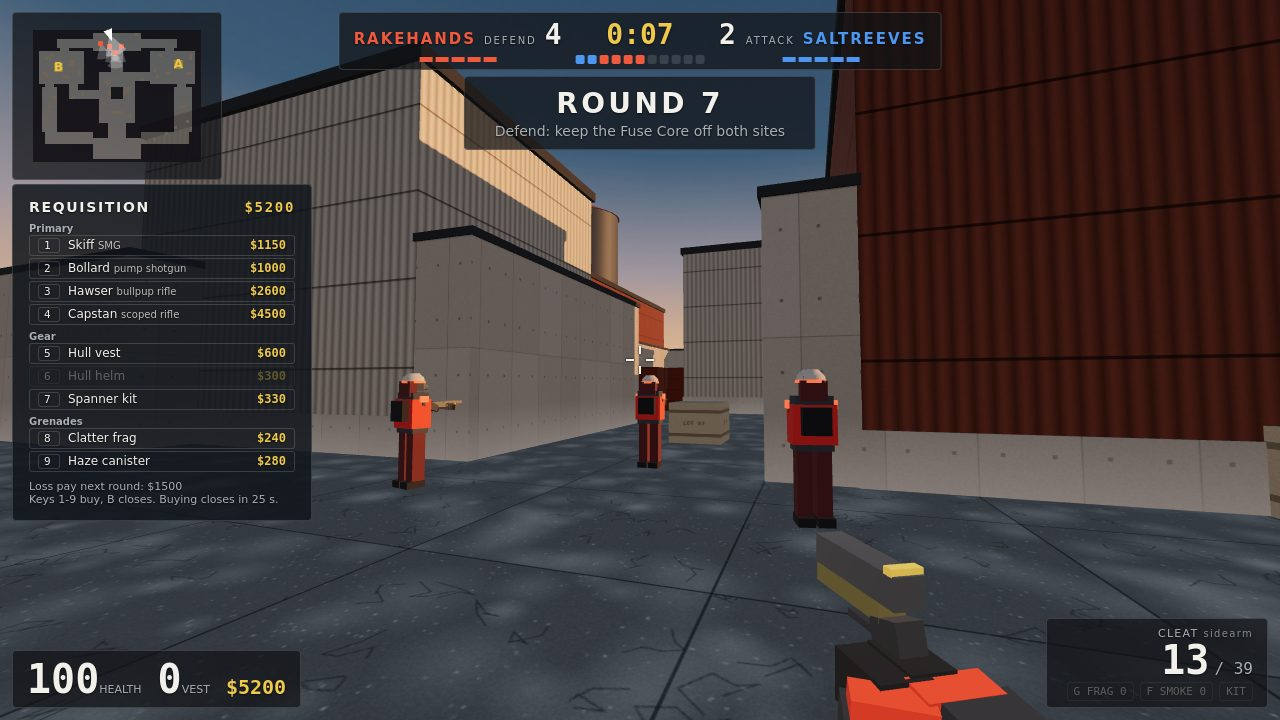
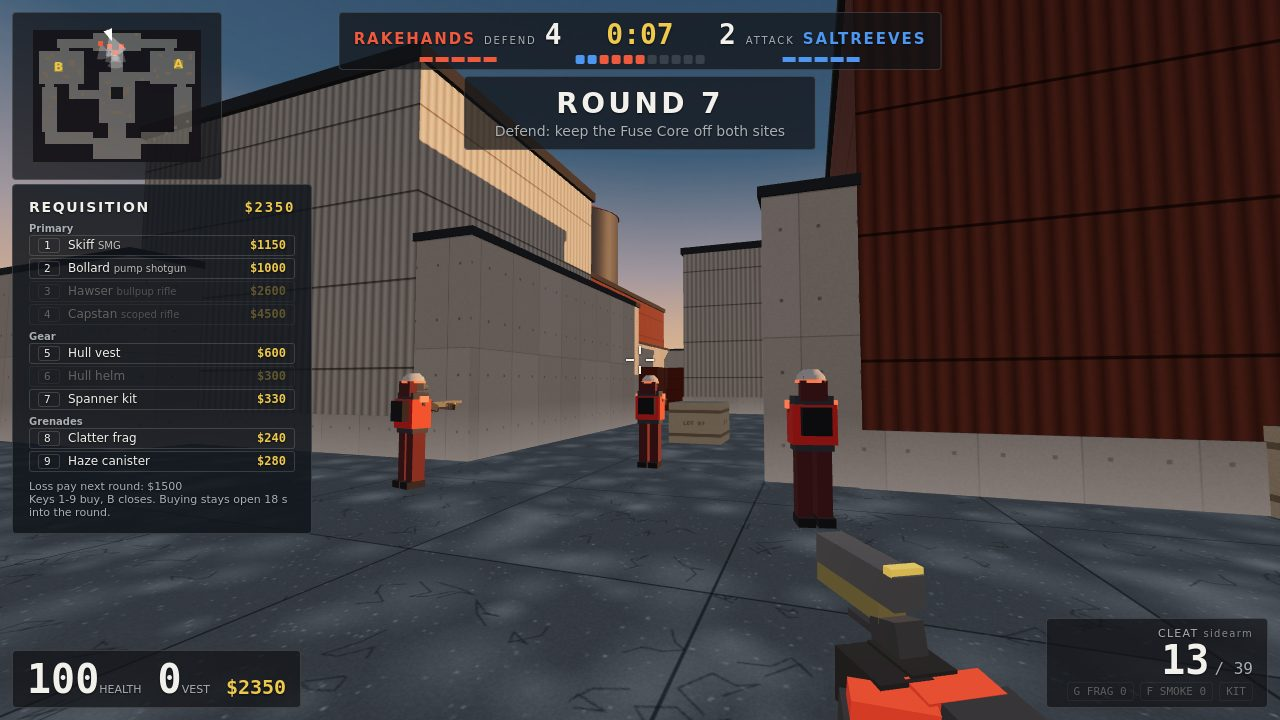
Buy menu: a static true footer instead of a second countdown; shot 2 at $2350
- The footer said 'Buying closes in 25 s' next to the 0:07 freeze clock; it now says 'Buying
  stays open 18 s into the round' (ROUND.buyWindow), keyed on the loss pay (-78 B).
- Shot 2 stages exactly $2350, so the Hawser and Capstan rows dim: money limits the buy.
Fresh screenshots.

diff --git a/tools/stage.js b/tools/stage.js
@@ -29,7 +29,7 @@ const SCENES = {
       s.p.cmd.fire = i === 15 || i === 31;
     } },
   // Buy time in the defenders' yard, the low sun across the cladding, teammates armed differently.
-  2: { side: 1, round: 7, phase: 'freeze', ticks: 12, buy: true, money: 5200, bare: true,
+  2: { side: 1, round: 7, phase: 'freeze', ticks: 12, buy: true, money: 2350, bare: true,
     cast: [['p', 25, 1, 27, 8], ['m0', 25, 5, 26, 9, 'skiff'], ['m1', 29, 5, 28, 9, 'bollard'], ['m2', 27, 7, 27, 12, 'hawser']],
     script(i, s) { s.aim(null, 0.05, 27.5, 8); } },
   // Arming on B: a teammate arms the Fuse Core on the pad while the player covers from behind; the smoke
@@ -88,7 +88,7 @@ function stage(ctx, sc) {
   for (const [k, c, r, fc, fr, gun] of sc.cast) place(state, who(k), c, r, fc, fr, gun);
   if (sc.bare) Object.assign(p, { armor: 0, helm: false, kit: false }), Object.assign(p.grenades, { frag: 0, smoke: 0 });
   else { Object.assign(p.grenades, { frag: 1, smoke: 1 }); p.armor = 100; p.helm = true; p.kit = mySide === 1; } // the kit is the defenders'
-  p.money = Math.max(p.money, sc.money ?? 3150);
+  p.money = sc.money ?? Math.max(p.money, 3150); // exact when the scene sets it
   p.hp = sc.hp ?? 100;
   if (sc.core === 'carry' || sc.core === 'mate') Object.assign(state.core, { state: 'carried', carrier: sc.core === 'mate' ? mates.find((m) => !m.brain.lurk).id : p.id }); // the lurker never carries
   if (sc.core === 'm0') Object.assign(state.core, { state: 'carried', carrier: who('m0').id, worker: who('m0').id, progress: 0.62 }); // mid-arm

diff --git a/game/src/ui/hud.js b/game/src/ui/hud.js
@@ -131,8 +131,8 @@ export function createHud(state, camera) {
     if (buyOpen) {
       if (changed('buyMoney', p.money)) el['buy-money'].textContent = '$' + p.money;
       for (let i = 0; i < SHOP.length; i++) toggle(buyRows[i], 'off', !canBuy(state, p, SHOP[i]));
-      const left = Math.max(0, Math.ceil((round.phase === 'freeze' ? round.timer : round.clock - ROUND.live) + ROUND.buyWindow));
-      if (changed('buyFoot', left)) el['buy-foot'].textContent = `Loss pay next round: $${lossPay(state.teams[p.team])}\nKeys 1-9 buy, B closes. Buying closes in ${left} s.`;
+      const loss = lossPay(state.teams[p.team]);
+      if (changed('buyFoot', loss)) el['buy-foot'].textContent = `Loss pay next round: $${loss}\nKeys 1-9 buy, B closes. Buying stays open ${ROUND.buyWindow} s into the round.`;
     }
     const board = boardOpen || round.phase === 'matchover';
     if (board) {
